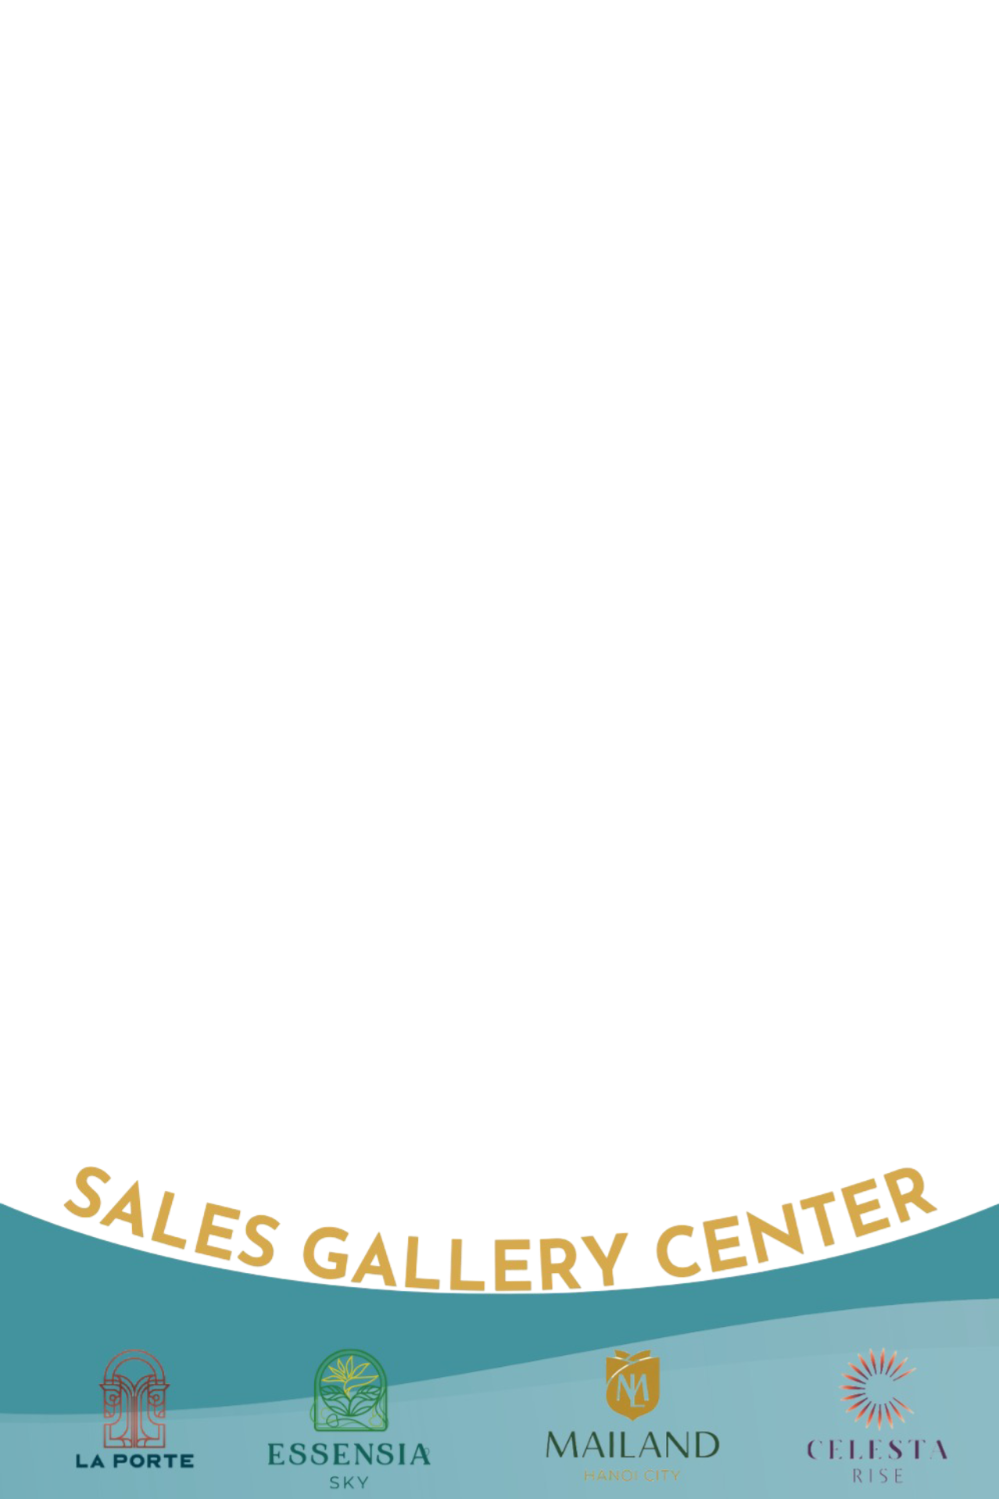
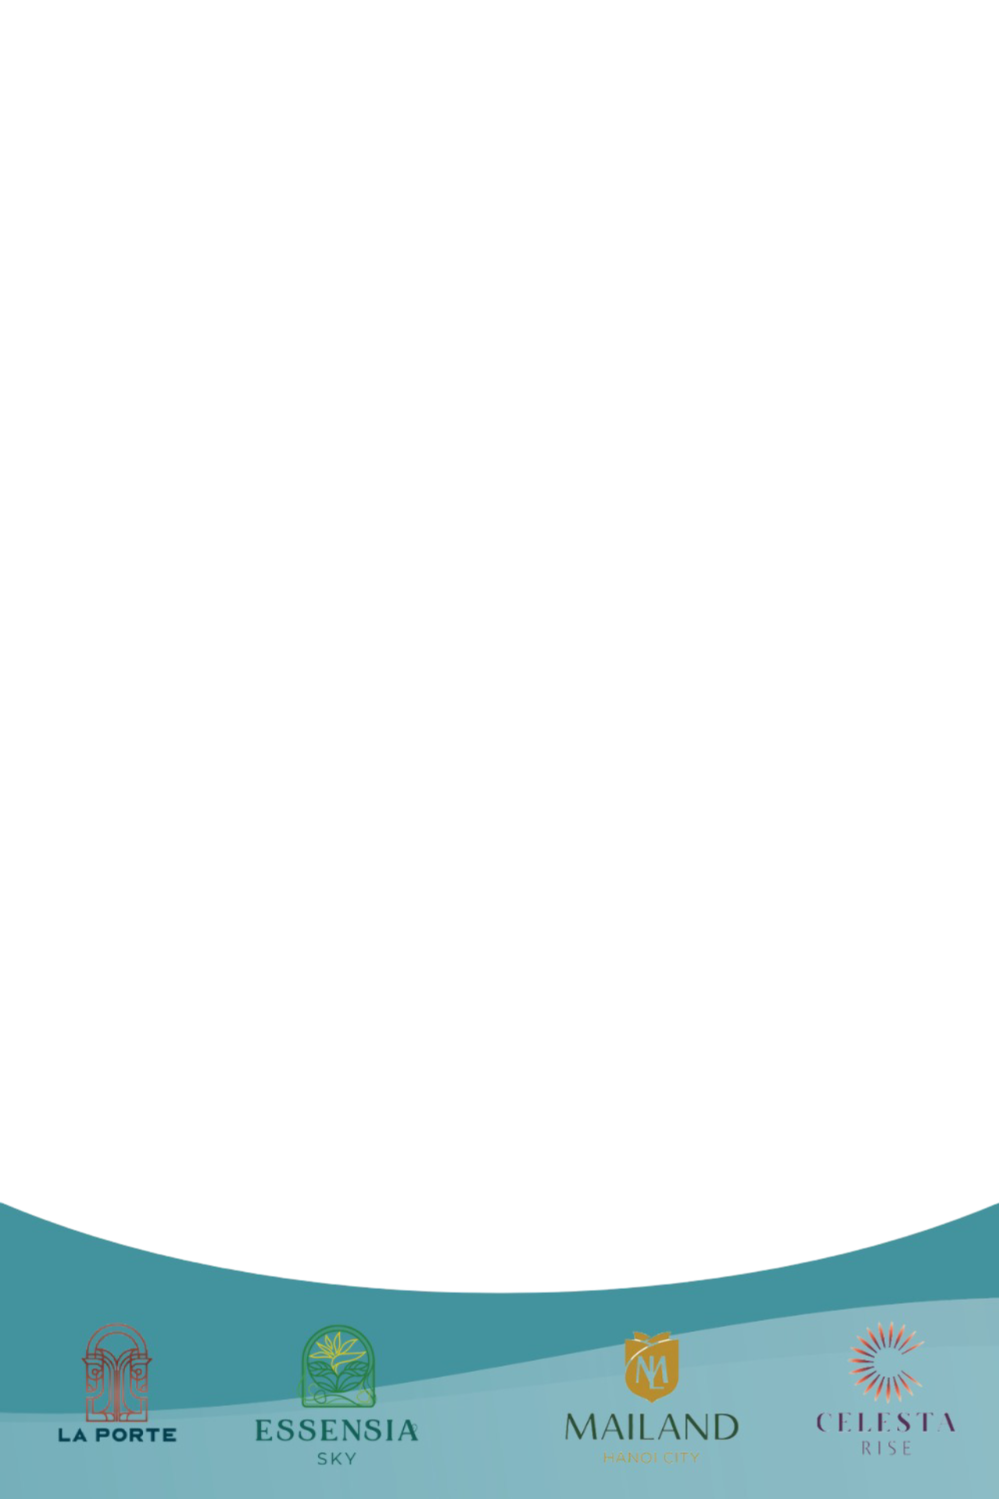
[Update] responsive phulong

diff --git a/assets/photo_frame/phulong-sale-grand-opening/css/style_pf.css b/assets/photo_frame/phulong-sale-grand-opening/css/style_pf.css
@@ -805,7 +805,7 @@ body {
         bottom: 0px;
         left: 0px;
         width: 100%;
-        height: 100%;
+        height: 80%;
         
         /* z-index: 6; */
     }
